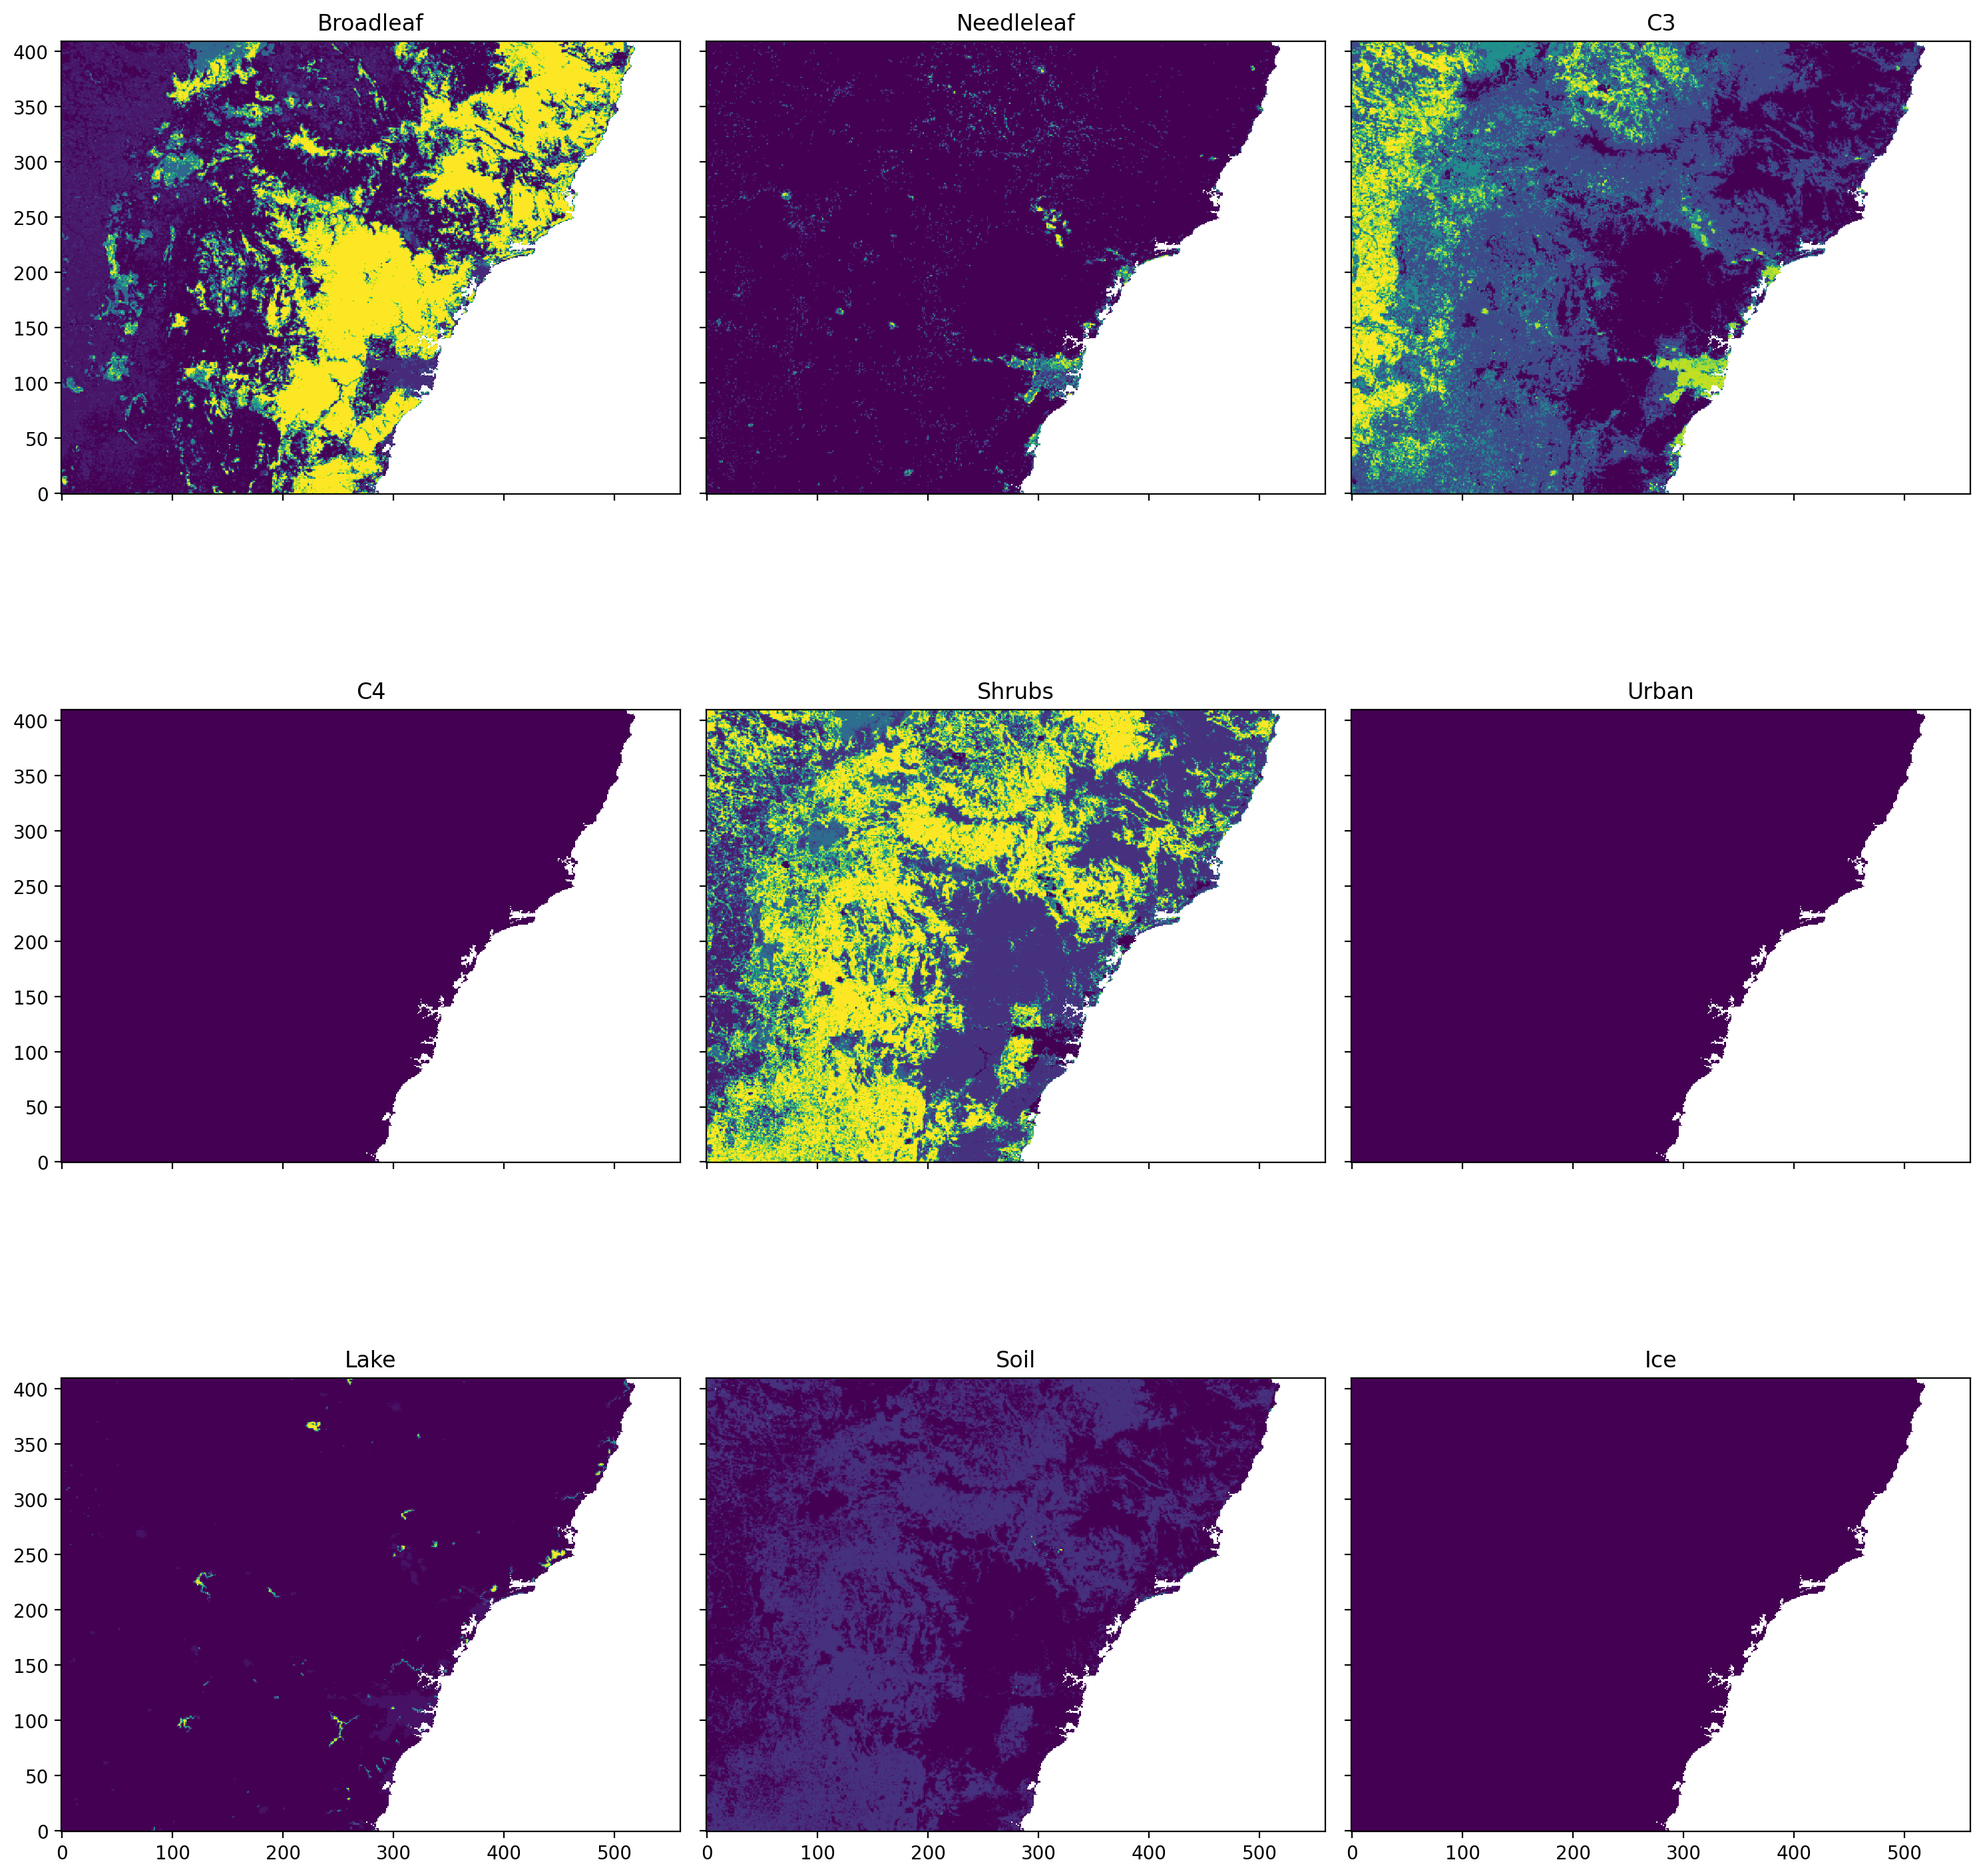
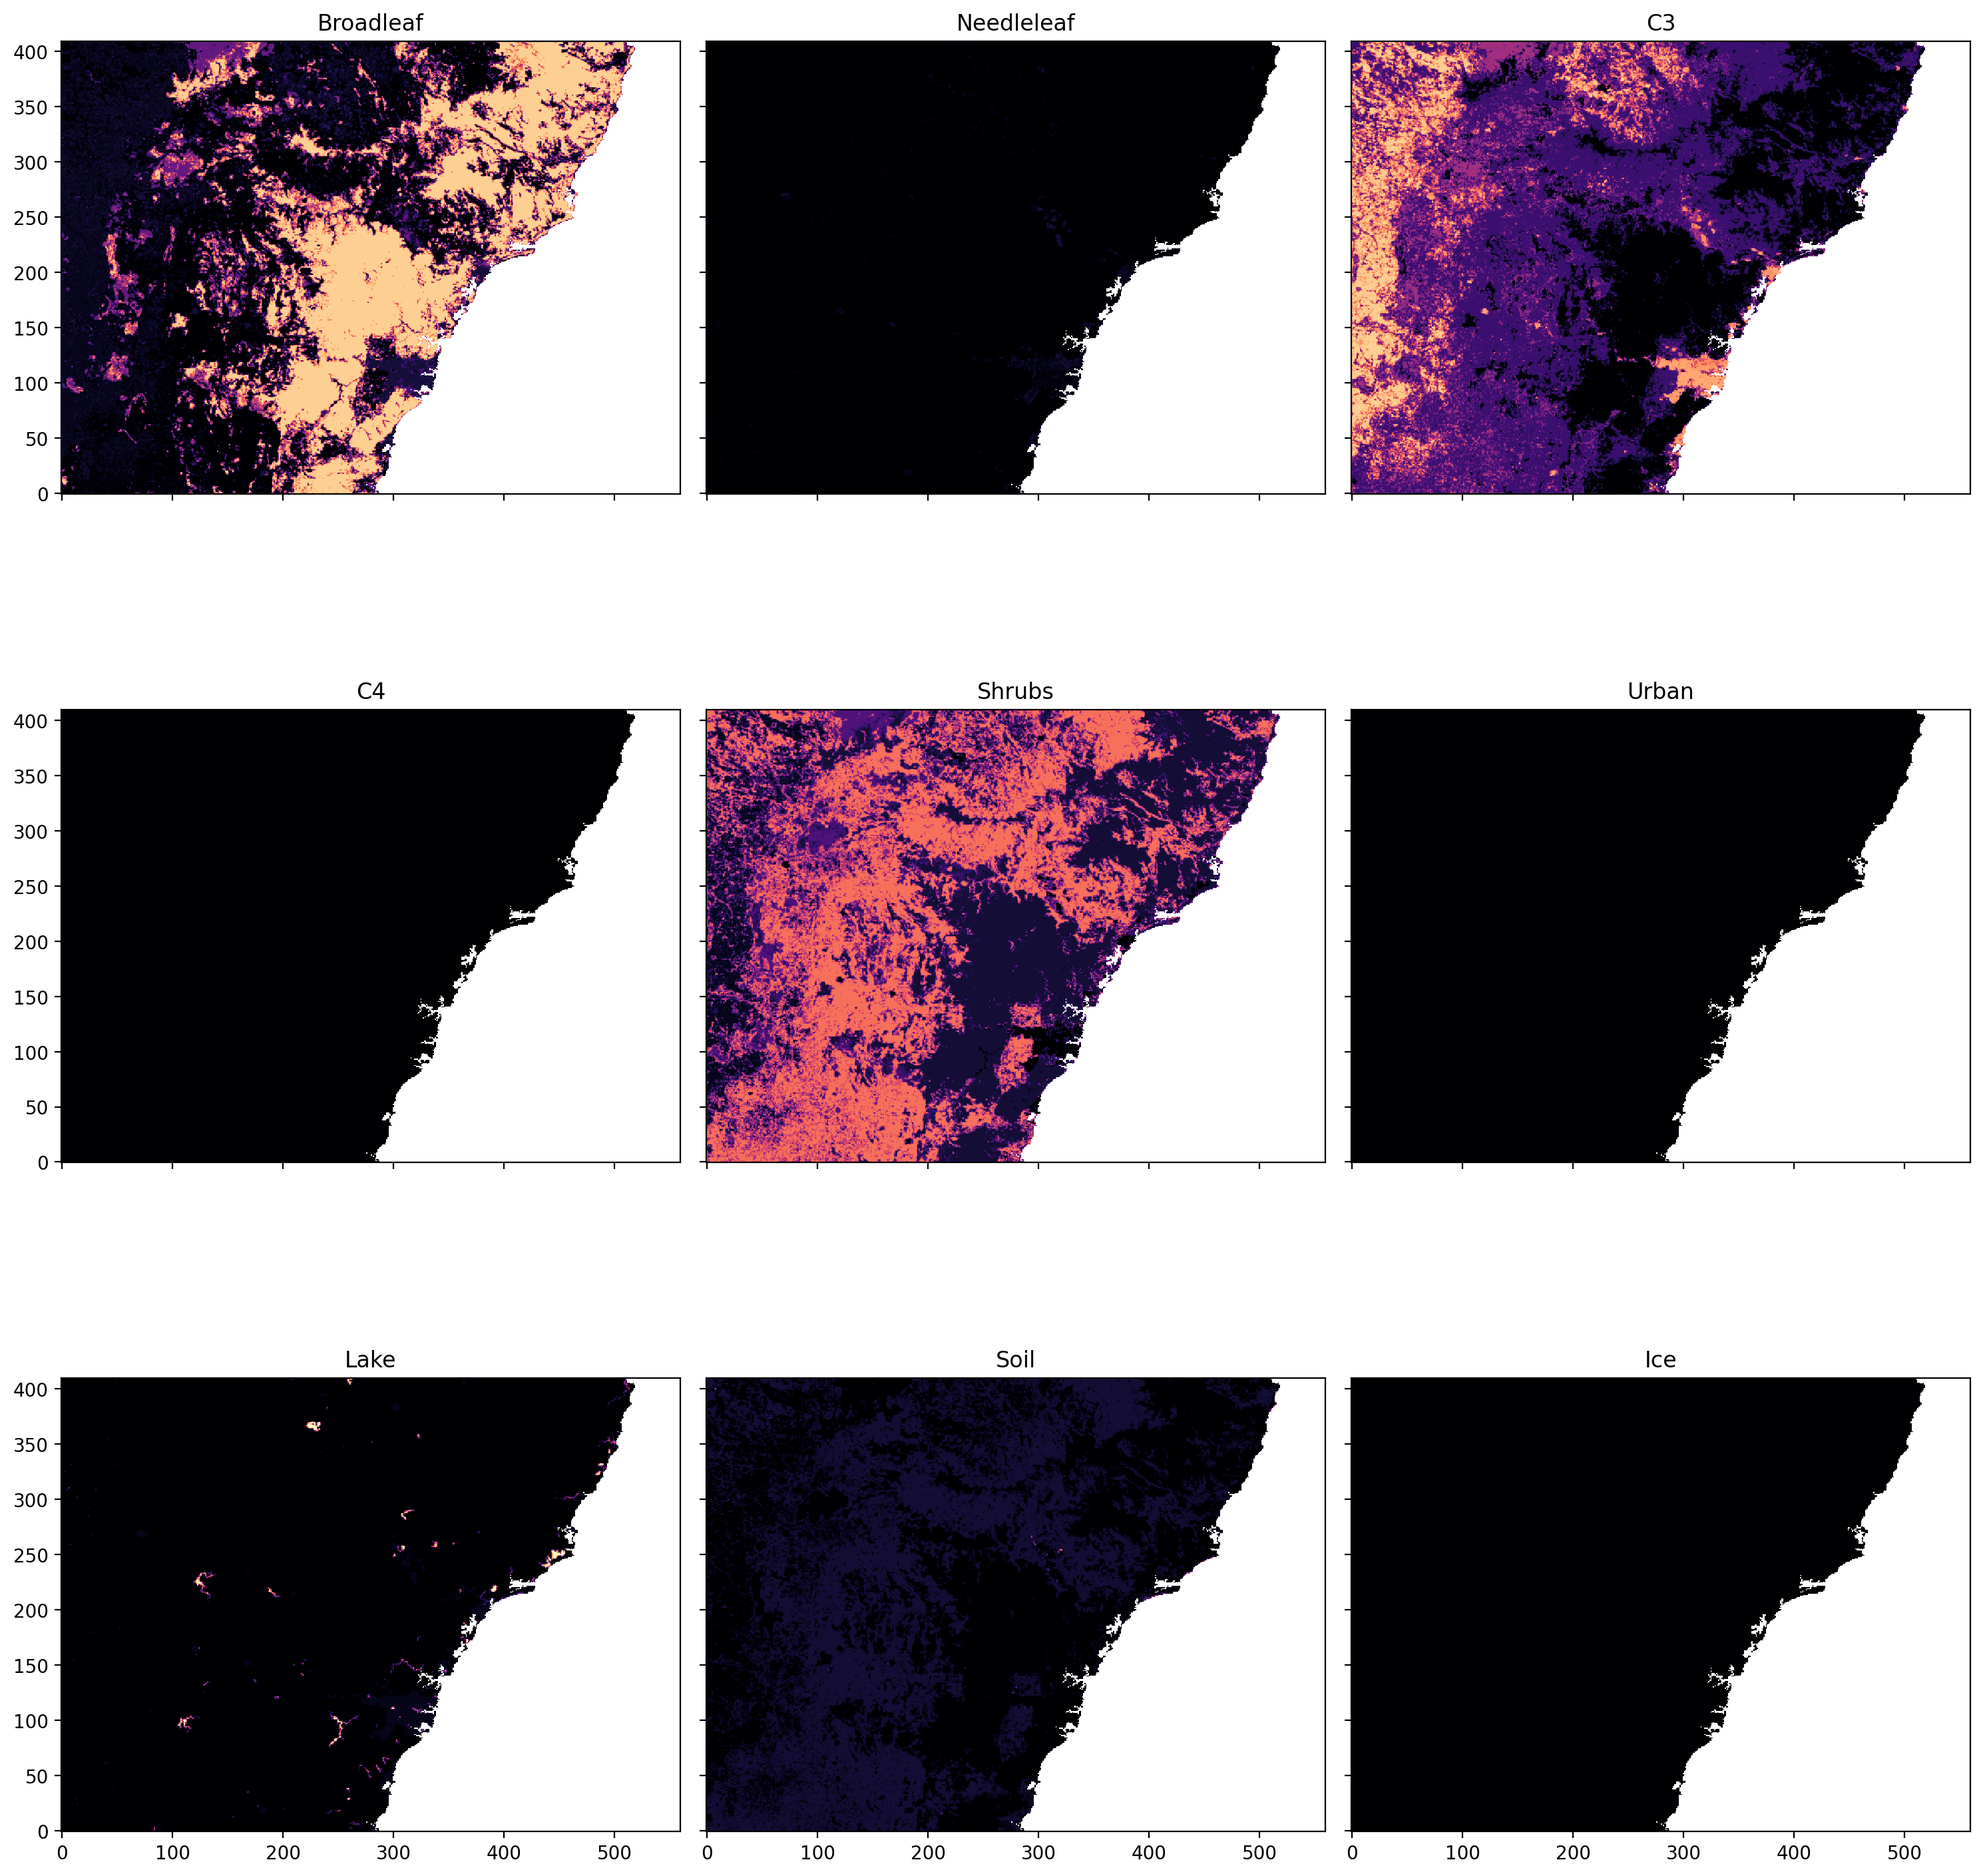
update plot

diff --git a/ancil_code/ancil_lct_postproc_no_urban.py b/ancil_code/ancil_lct_postproc_no_urban.py
@@ -211,7 +211,7 @@ def plot_lct(lct, output_base, label):
     plt.close('all')
     fig, axes = plt.subplots(3,3, figsize=(15, 15), sharex=True, sharey=True)
     for i,ax in enumerate(axes.flatten()):
-        ax.imshow(lct.data[i, :, :], interpolation='none', origin='lower')
+        ax.imshow(lct.data[i, :, :], interpolation='none', origin='lower', vmin=0, vmax=1, cmap='magma')
         # xr.DataArray().from_iris(new_lct[i, :, :]).plot(ax=ax, vmin=0, vmax=0.5)
         ax.set_title(tile_titles[i])
         ax.xaxis.label.set_visible(False)
